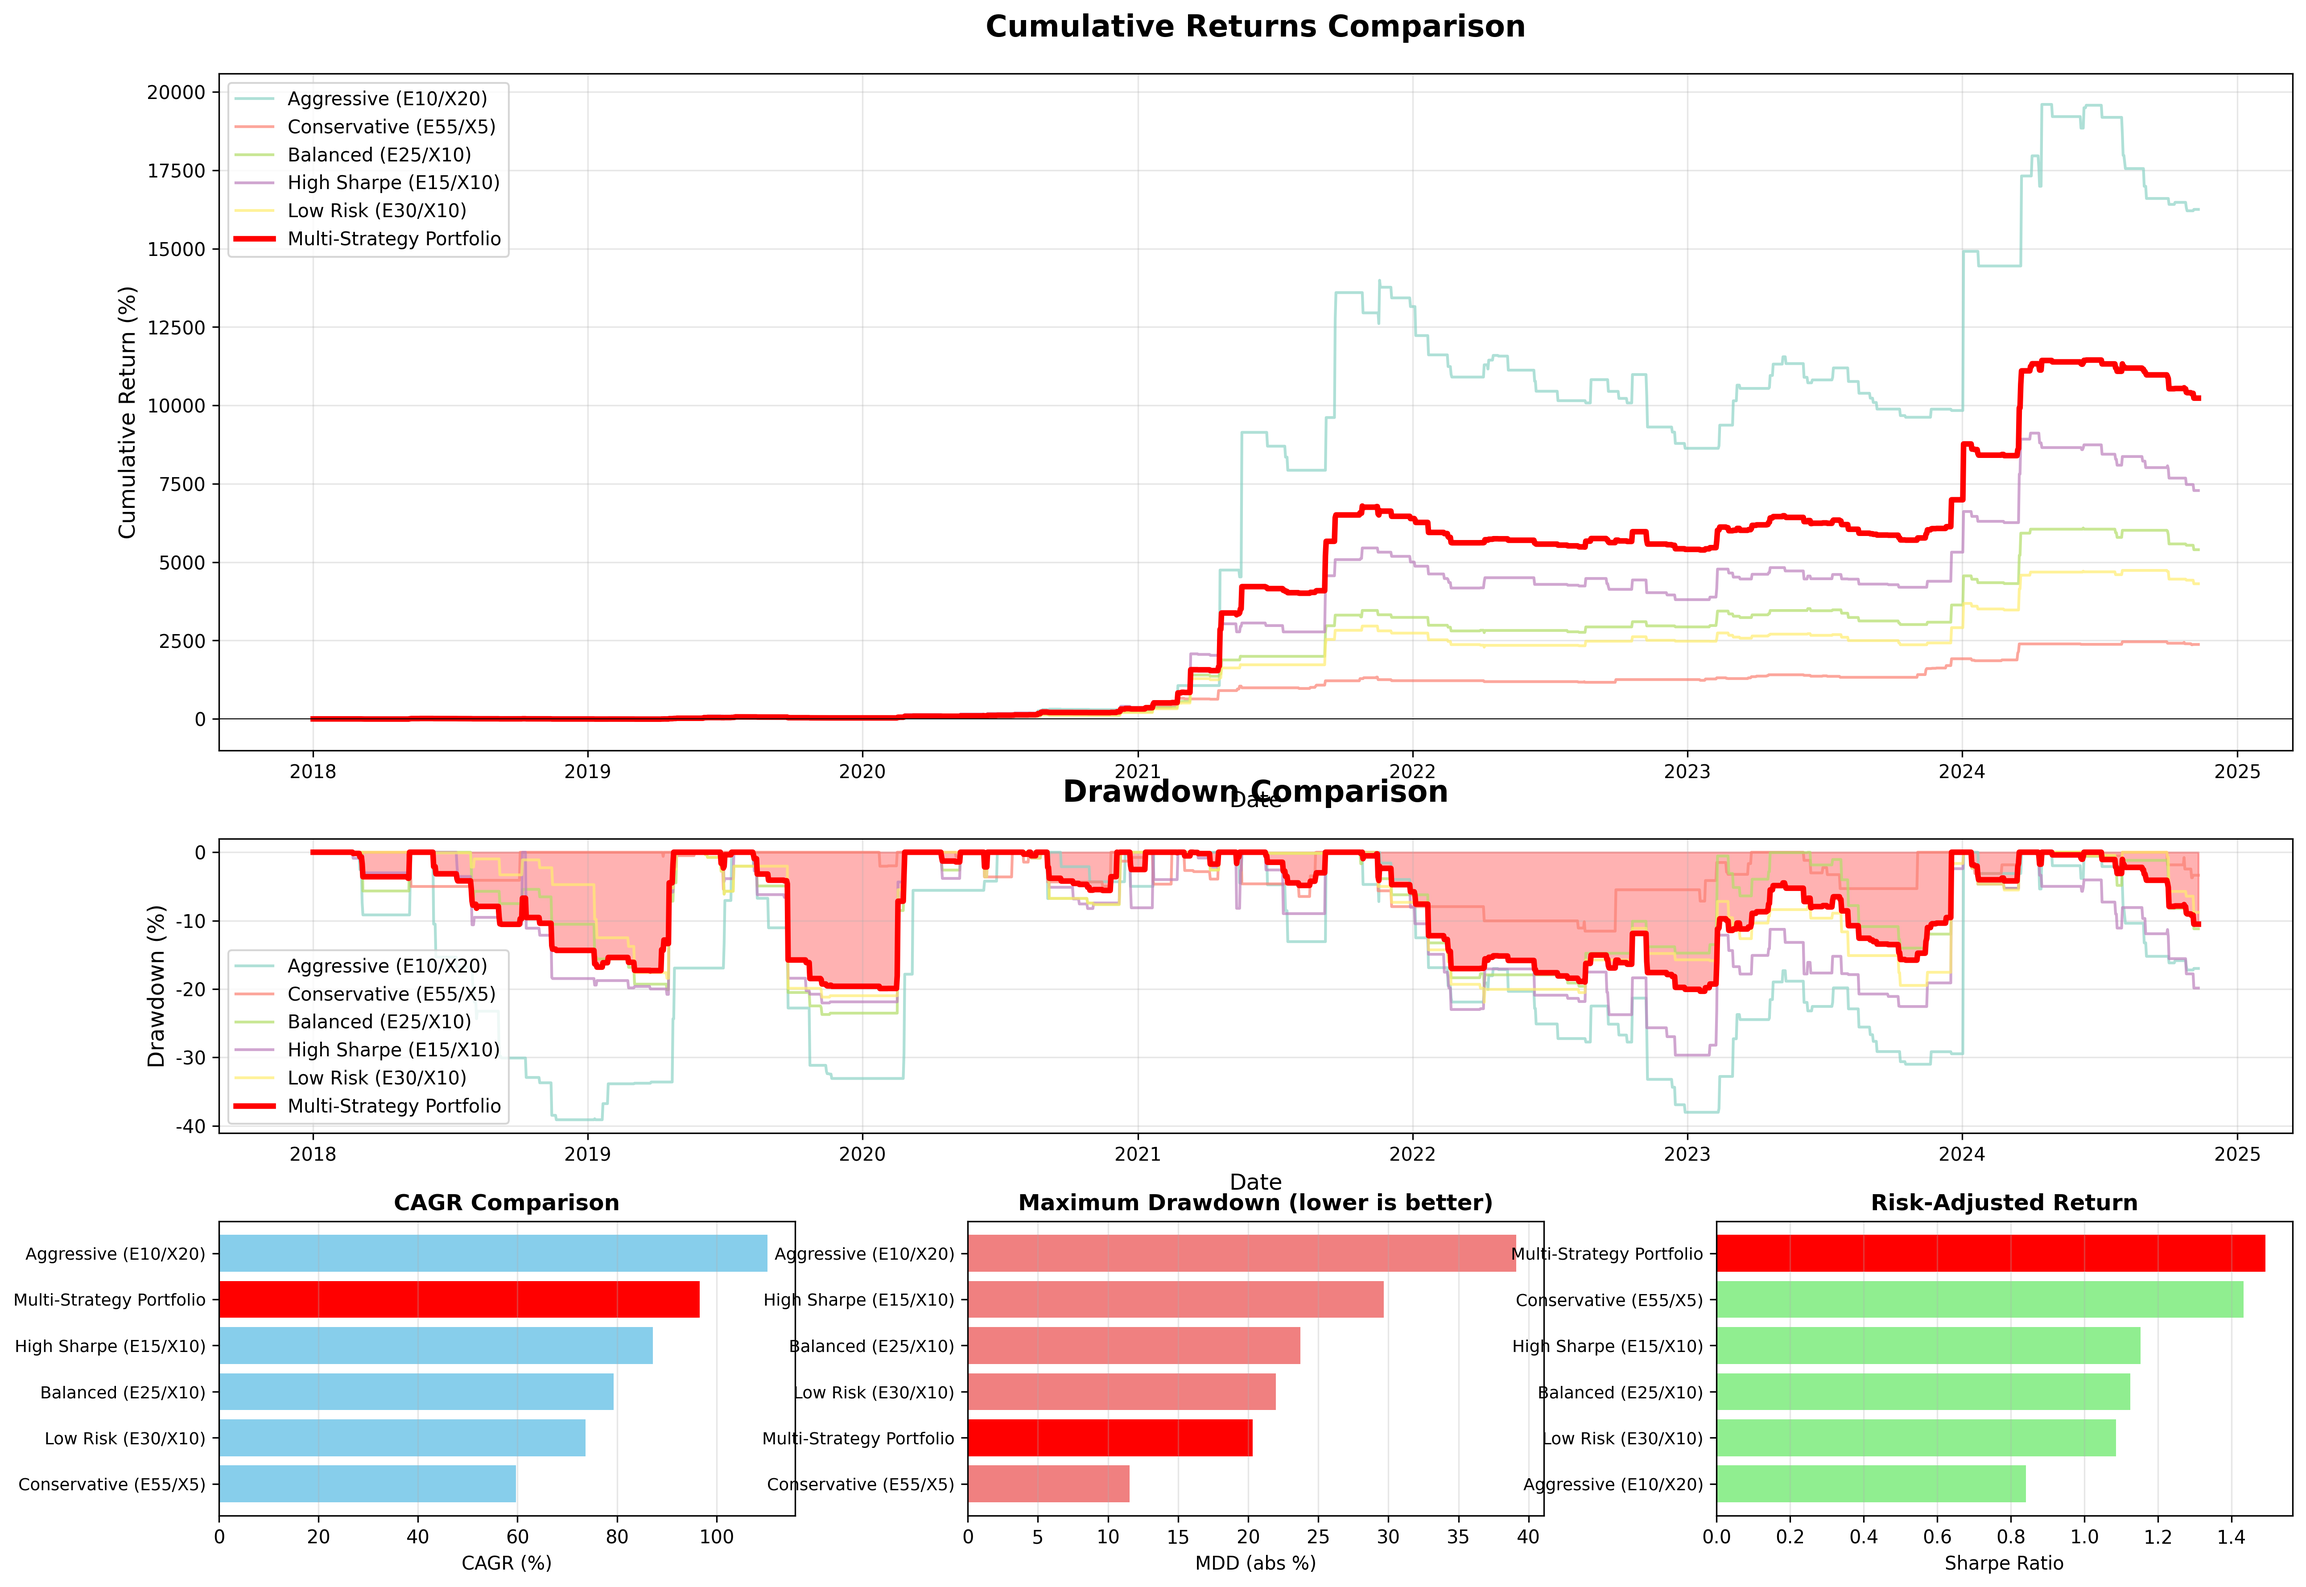
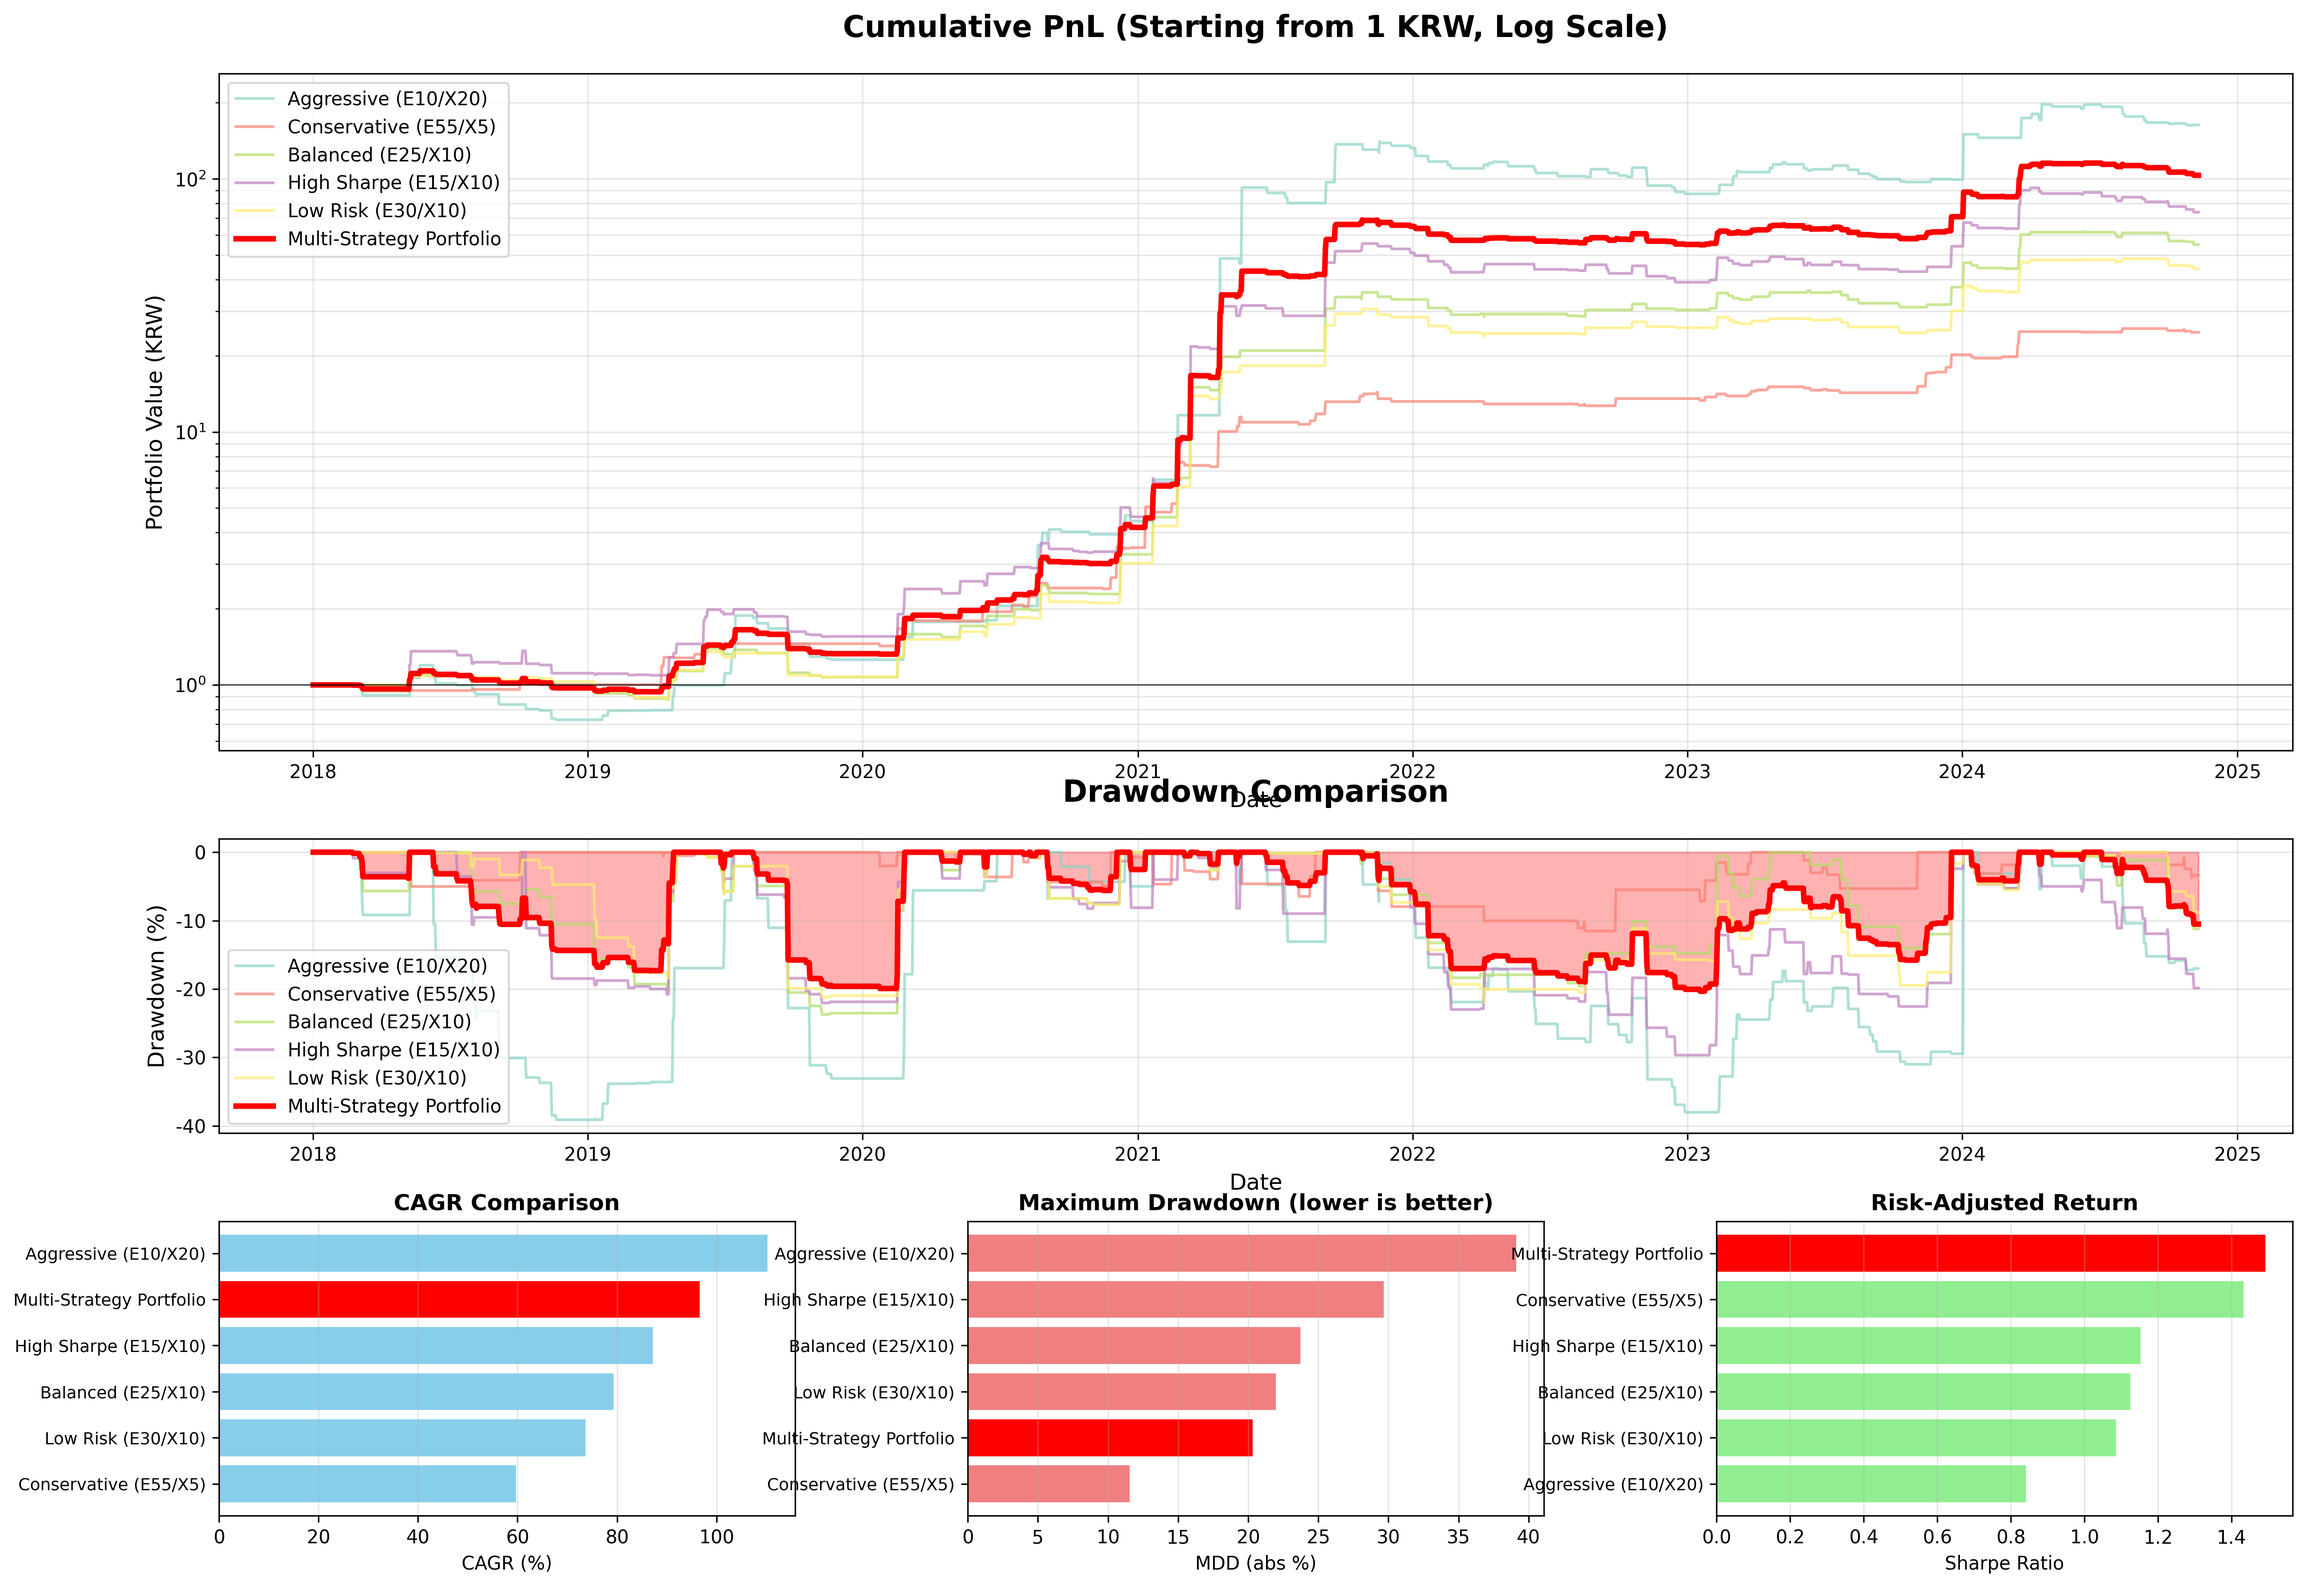
Update PnL chart to log scale with 1 KRW starting value
Changes:
- Changed cumulative PnL chart from percentage to absolute value (1 KRW start)
- Applied logarithmic scale (log y-axis) for better visualization
- Updated chart title to reflect log scale presentation
- Changed y-axis label from "Cumulative Return (%)" to "Portfolio Value (KRW)"
- Added 'which=both' for grid to show both major and minor gridlines
- Changed baseline from y=0 to y=1 (1 KRW starting point)

Benefits:
✅ Better visualization of exponential growth
✅ Easier comparison of relative performance over time
✅ Clearer view of drawdown periods
✅ More intuitive understanding of compounding effects

diff --git a/turtle_trading_multi_strategy_portfolio.py b/turtle_trading_multi_strategy_portfolio.py
@@ -272,24 +272,25 @@ class MultiStrategyPortfolioAnalyzer:
         colors = plt.cm.Set3(np.linspace(0, 1, len(strategy_names)))
         portfolio_color = 'red'
 
-        # 1. 누적 수익률 (큰 차트)
+        # 1. 누적 수익률 (큰 차트) - 1원 시작 기준, Log Scale
         ax1 = fig.add_subplot(gs[0:2, :])
         for idx, strategy_name in enumerate(strategy_names):
             cumulative = self.strategy_results[strategy_name]['cumulative']
-            ax1.plot(cumulative.index, (cumulative - 1) * 100,
+            ax1.plot(cumulative.index, cumulative,
                     label=strategy_name, linewidth=1.5, alpha=0.7, color=colors[idx])
 
         # 포트폴리오
         portfolio_cumulative = self.portfolio_results['cumulative']
-        ax1.plot(portfolio_cumulative.index, (portfolio_cumulative - 1) * 100,
+        ax1.plot(portfolio_cumulative.index, portfolio_cumulative,
                 label='Multi-Strategy Portfolio', linewidth=3, color=portfolio_color)
 
-        ax1.set_title('Cumulative Returns Comparison', fontsize=16, fontweight='bold', pad=20)
+        ax1.set_title('Cumulative PnL (Starting from 1 KRW, Log Scale)', fontsize=16, fontweight='bold', pad=20)
         ax1.set_xlabel('Date', fontsize=12)
-        ax1.set_ylabel('Cumulative Return (%)', fontsize=12)
+        ax1.set_ylabel('Portfolio Value (KRW)', fontsize=12)
+        ax1.set_yscale('log')
         ax1.legend(loc='upper left', fontsize=10)
-        ax1.grid(alpha=0.3)
-        ax1.axhline(y=0, color='black', linestyle='-', linewidth=0.5)
+        ax1.grid(alpha=0.3, which='both')
+        ax1.axhline(y=1, color='black', linestyle='-', linewidth=0.5)
 
         # 2. Drawdown (큰 차트)
         ax2 = fig.add_subplot(gs[2, :])
